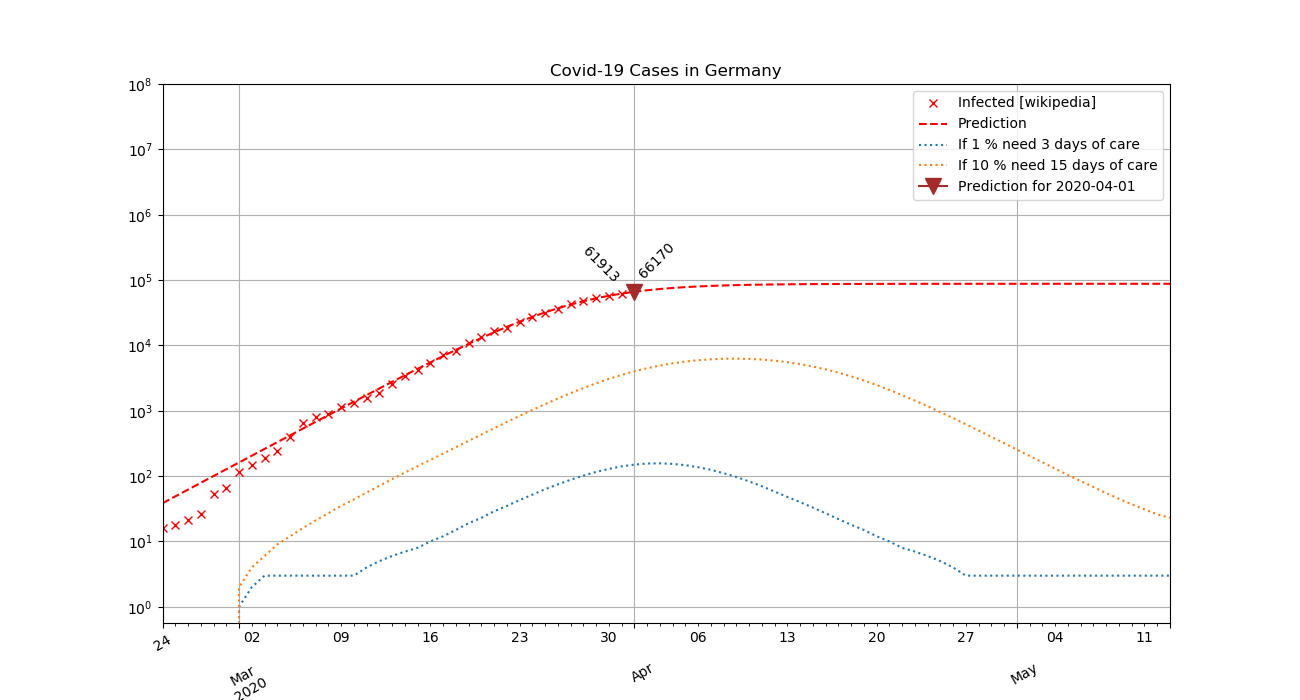
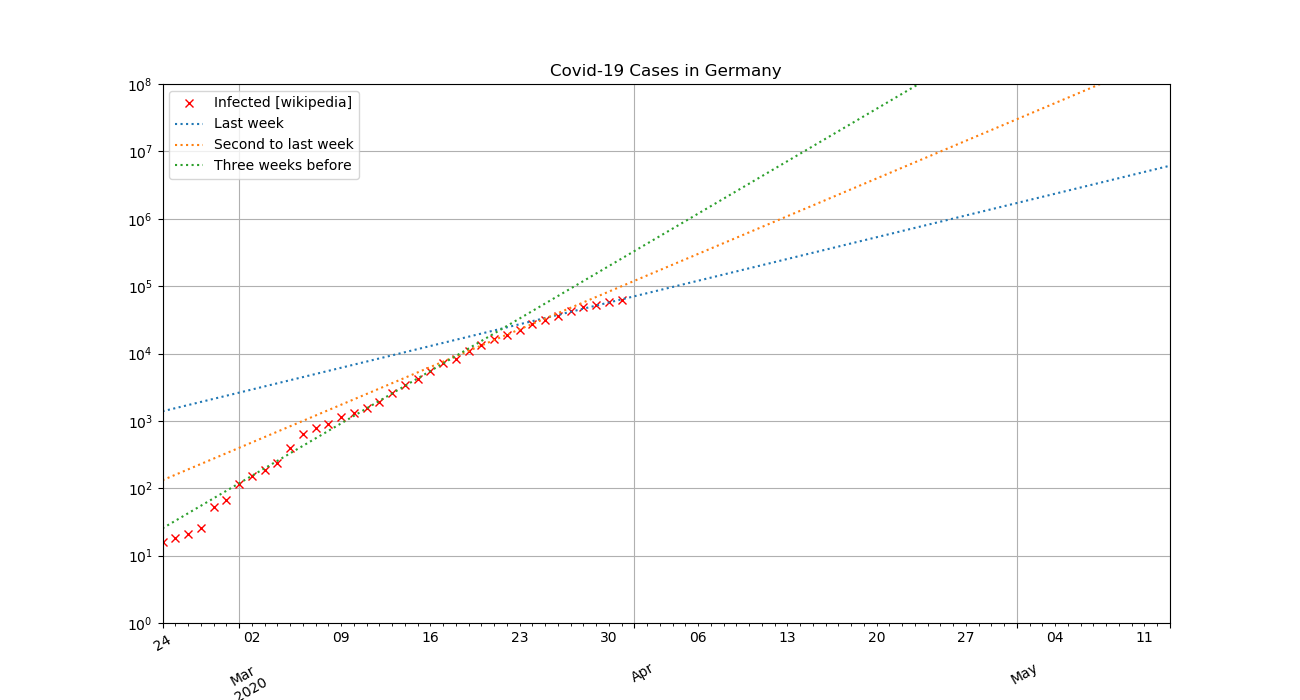
Looks good, prediction next date open

diff --git a/coro.py b/coro.py
@@ -10,23 +10,23 @@ from matplotlib.dates import MO
 from scipy import optimize as op
 
 
-PREDICTIONS = [{'days': 3,
-                'percentage': 1,
-                'key': 'If 1 % need 3 days of care',
+PREDICTIONS = [{'until': 0,
+                'days': 7,
+                'key': 'Last week',
                 'plot': True}]
-PREDICTIONS.append({'days': 15,
-                    'percentage': 10,
-                    'key': 'If 10 % need 15 days of care',
+PREDICTIONS.append({'until': 7,
+                    'days':  7,
+                    'key': 'Second to last week',
+                    'plot': True})
+PREDICTIONS.append({'until': 14,
+                    'days':  7,
+                    'key': 'Three weeks before',
                     'plot': True})
 
-
-def _logistic_function(x, k, x_0, L):
-    # L maximum
-    # k Steepness, d/dx(x=x_0) = k * L
-    # x_0 point of 0.5L
-    # L = 0.5 * 0.7 * 82e6 # The amount of people which will be roundabout at the half infection point.
-    y = L / (1 + np.exp(-k * (x - x_0)))
+def _exponential_function(x, k, x_0):
+    y = np.exp(k * (x - x_0))
     return y
+
 
 def _get_data():
     data = pd.read_csv('covid-19_germany.csv', index_col=0, parse_dates=True)
@@ -39,63 +39,58 @@ def _get_data():
 
 
 def _get_predictions(data, predict_date='2020-03-20', N=70):
-    inc_time = 5 # Incubation Time
-    d = op.curve_fit(_logistic_function, data.index.factorize()[0], data['Infected'], p0=[0.5, 30, 500e3])[0]
     N = (0, N)
+    xx =  data.index.factorize()[0]
     XX = np.array(range(N[0], N[1]))
-    
-    predicted_infected = _logistic_function(XX, d[0], d[1], d[2])
-    pred = pd.DataFrame(data={'Prediction': predicted_infected},
-                        index=pd.date_range(start=data.index[0], periods=N[1]-N[0], freq='d'))
- 
-    diff_prediction = np.diff(pred['Prediction'])
-    new_infected_prediction  = np.hstack([[0] * (inc_time+1),  diff_prediction[:-inc_time]]) # shift array with inc_time --> eg. 10 days after infection
+    last_date = data.index[-1]
+
+    pred = pd.DataFrame(index=pd.date_range(start=data.index[0], periods=N[1]-N[0], freq='d'))
     for prediction in PREDICTIONS:
-        prediction_key = prediction['key']
-        pred[prediction_key] = np.ceil(new_infected_prediction * prediction['percentage']/100)
-        pred[prediction_key] = pred[prediction_key].rolling('%dd' % (prediction['days'])).sum()
+        start_date = last_date - timedelta(days=prediction['until'])
+        end_date = start_date - timedelta(days=prediction['days']-1)
+        slice_x = xx[len(xx)-(prediction['until']+prediction['days']) : len(xx)-prediction['until'] ]
+        d = op.curve_fit(_exponential_function, slice_x,
+                         data.loc[end_date : start_date, 'Infected'].values,
+                         p0=[0.1, -70])[0]
+        predicted_infected = _exponential_function(XX, d[0], d[1])
+        pred[prediction['key']] = predicted_infected
 
-    turning_date = data.index[0] + timedelta(days=np.ceil(d[1]))
-    turning_point = pd.DataFrame(data=[np.ceil(pred.loc[turning_date]['Prediction'])],
-                                 columns=['Turning Point'],
-                                 index=[turning_date])
 
-    prediction = np.ceil(pred.loc[predict_date]['Prediction'])
-    PREDICTION = pd.DataFrame(data=prediction, columns=['Prediction for %s' % (predict_date)],
-                                  index=[pd.to_datetime(predict_date)])
-
-    return pred, PREDICTION, turning_point
+    return pred#, PREDICTION
 
 
 def get_plot(predict_date, safepath):
     data = _get_data()
 #   pred, PREDICTION, turning_point = _get_predictions(data=data, predict_date=predict_date, N=80)
-    pred, PREDICTION, _ = _get_predictions(data=data, predict_date=predict_date, N=80)
+#   pred, PREDICTION, _ = _get_predictions(data=data, predict_date=predict_date, N=80)
+#   pred, PREDICTION = _get_predictions(data=data, predict_date=predict_date, N=80)
+    pred = _get_predictions(data=data, predict_date=predict_date, N=80)
 
     day_before_prediction = (datetime.strptime(predict_date, '%Y-%m-%d') - timedelta(days=1)).strftime('%Y-%m-%d')
     _, ax = plt.subplots(figsize=(13,7))
     data['Infected'].plot(ax=ax, marker='x', linestyle='', label='Infected [wikipedia]', color='red')
-    pred['Prediction'].plot(ax=ax, label='Prediction', color='red', linestyle='--')
+#   pred['Prediction'].plot(ax=ax, label='Prediction', color='red', linestyle='--')
     for prediction in PREDICTIONS:
         if prediction['plot']:
             prediction_key = prediction['key']
             pred[prediction_key].plot(label=prediction_key, linestyle=':')
 
-    PREDICTION.plot(ax=ax, marker='v', color='brown', markersize=12)
+#   PREDICTION.plot(ax=ax, marker='v', color='brown', markersize=12)
 #   turning_point.plot(ax=ax, marker='^', color='orange', markersize=12)
-    ax.annotate('%d' %(PREDICTION.iloc[0,0]), (PREDICTION.index[0], PREDICTION.iloc[0,0]),
-                textcoords="offset points", rotation=45,
-                xytext=(1, 10))
-    ax.annotate('%d' %(data.loc[day_before_prediction, 'Infected']), (pd.to_datetime(day_before_prediction), 
-                                                                      data.loc[day_before_prediction, 'Infected']),
-                textcoords="offset points", rotation=-45,
-                xytext=(-30, 8))
+#   ax.annotate('%d' %(PREDICTION.iloc[0,0]), (PREDICTION.index[0], PREDICTION.iloc[0,0]),
+#               textcoords="offset points", rotation=45,
+#               xytext=(1, 10))
+#   ax.annotate('%d' %(data.loc[day_before_prediction, 'Infected']), (pd.to_datetime(day_before_prediction), 
+#                                                                     data.loc[day_before_prediction, 'Infected']),
+#               textcoords="offset points", rotation=-45,
+#               xytext=(-30, 8))
     plt.yscale('log')
     ax.grid(True)
     ax.legend(loc='best')
     plt.title('Covid-19 Cases in Germany')
     plt.xticks(rotation=30)
     plt.yticks(10**np.array(range(9)))
+    plt.ylim((1, 100e6))
     plt.savefig(safepath)
     return ax
 
